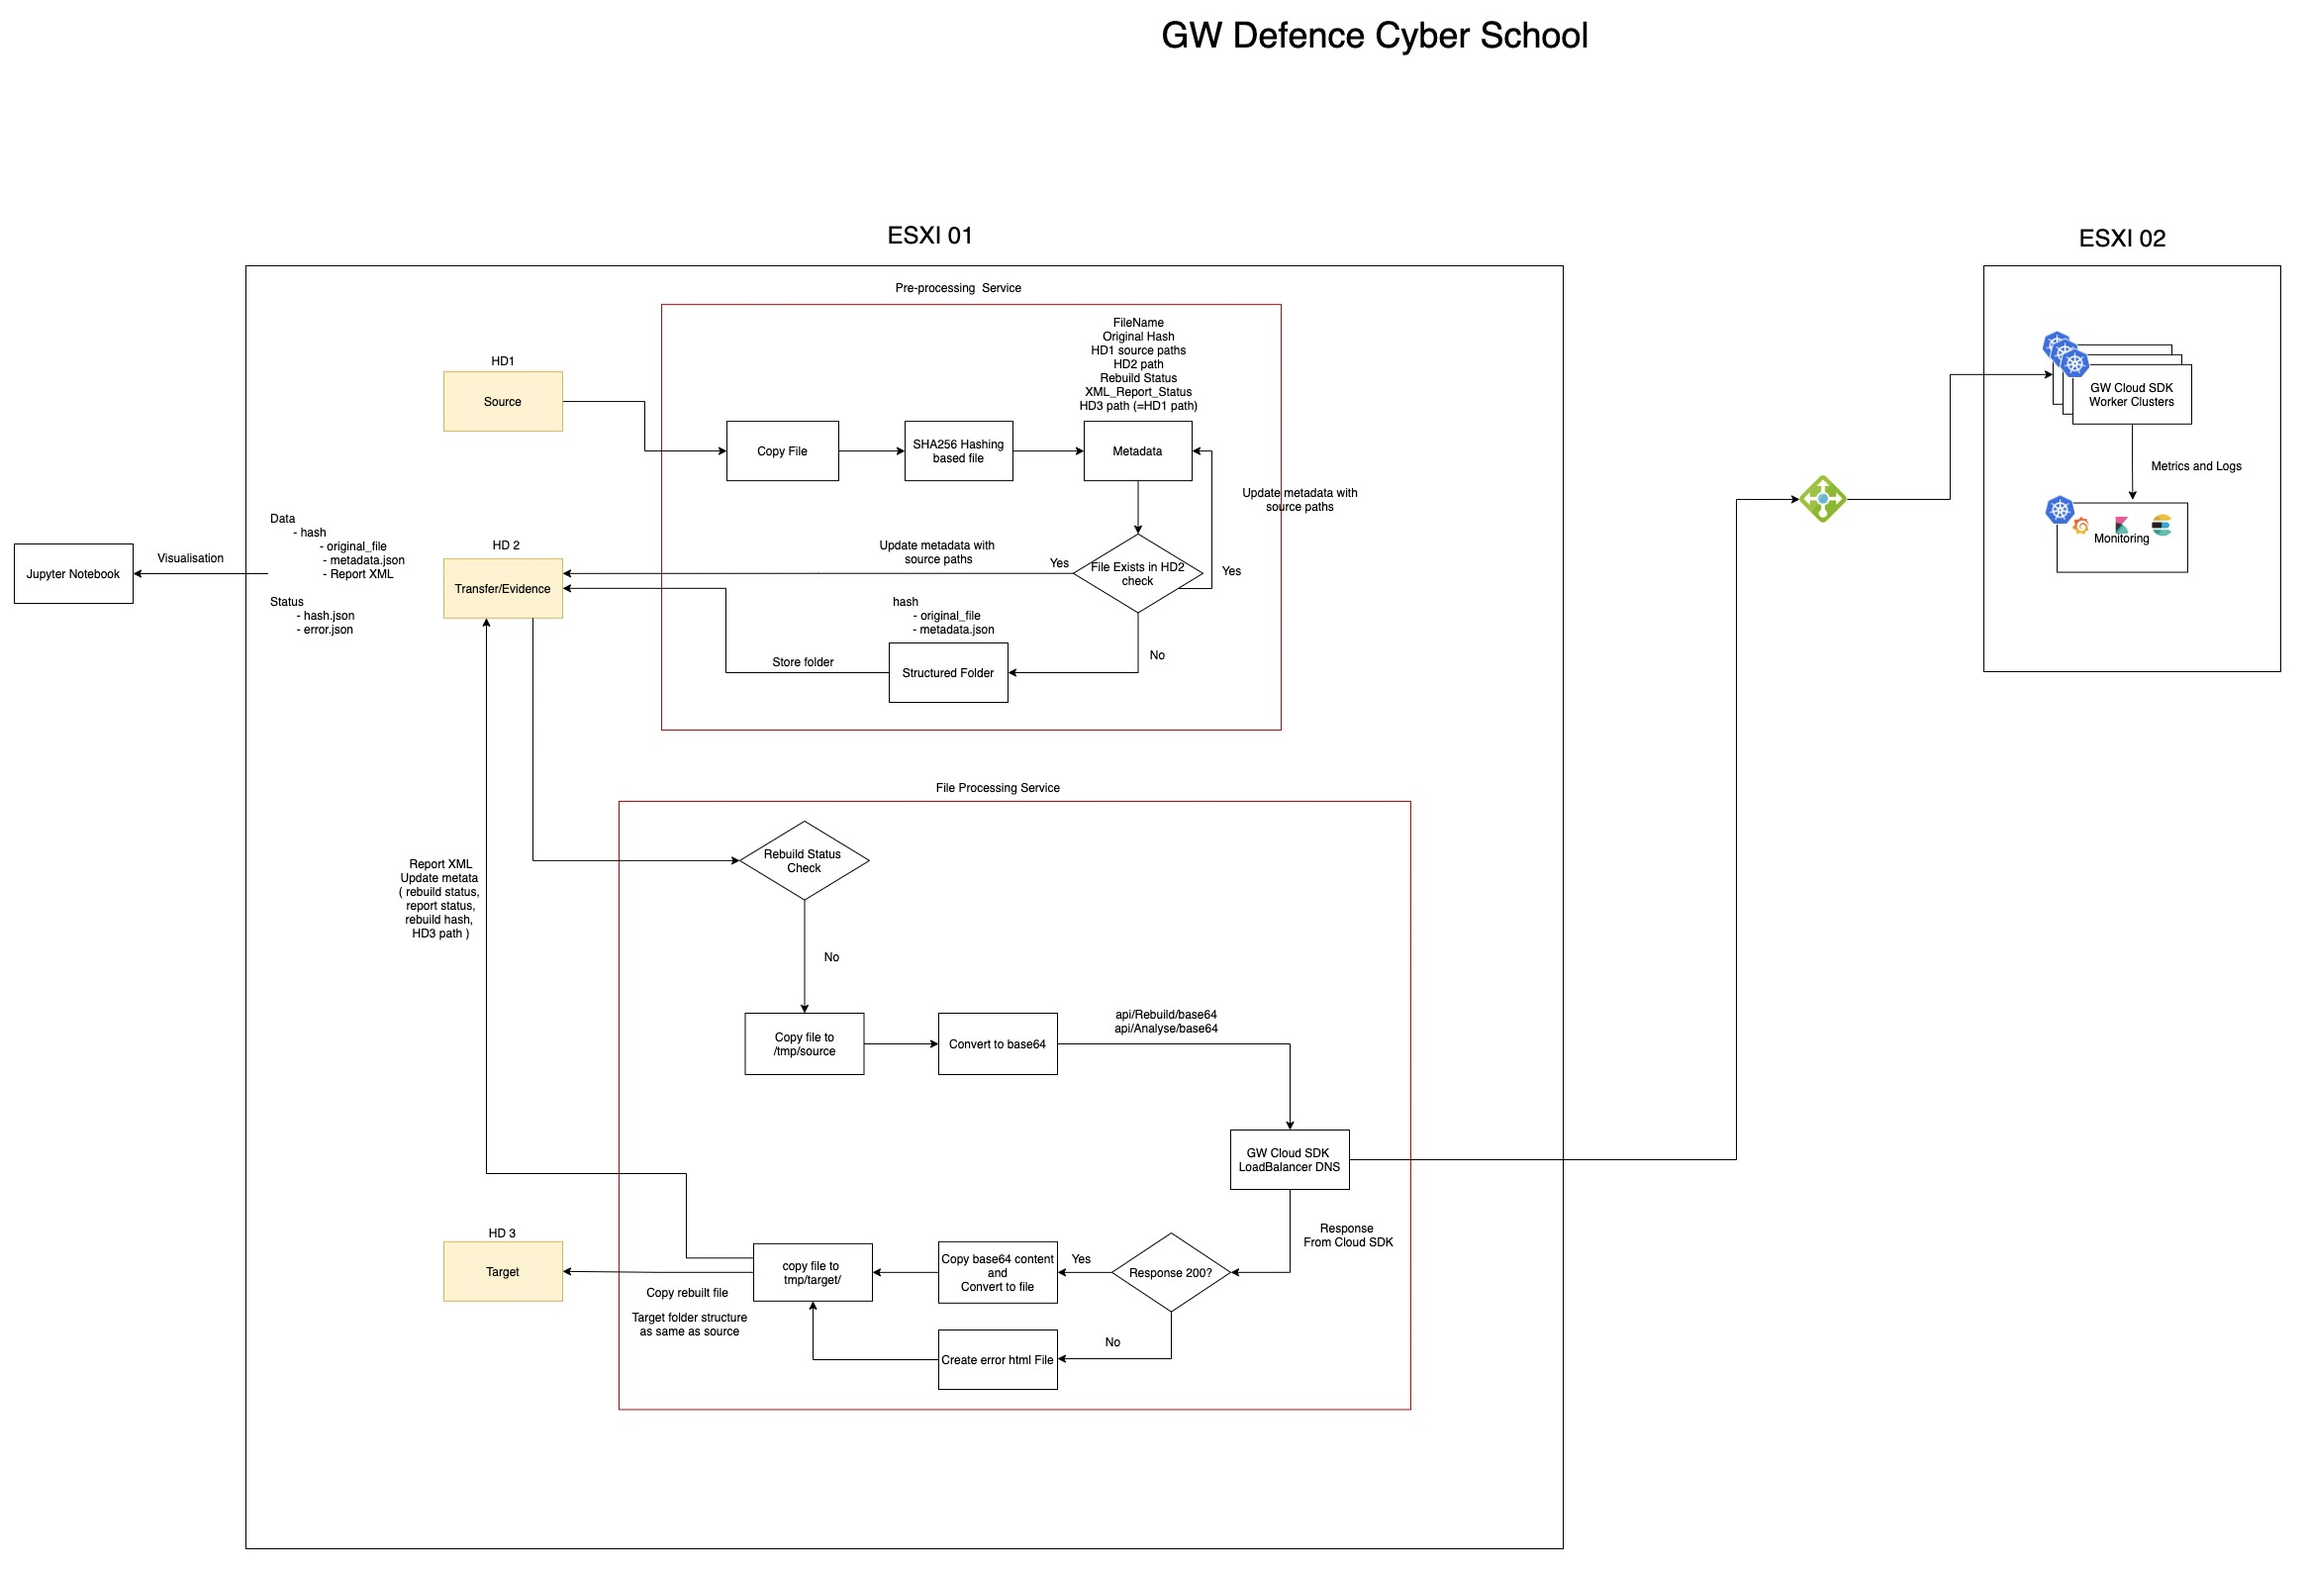
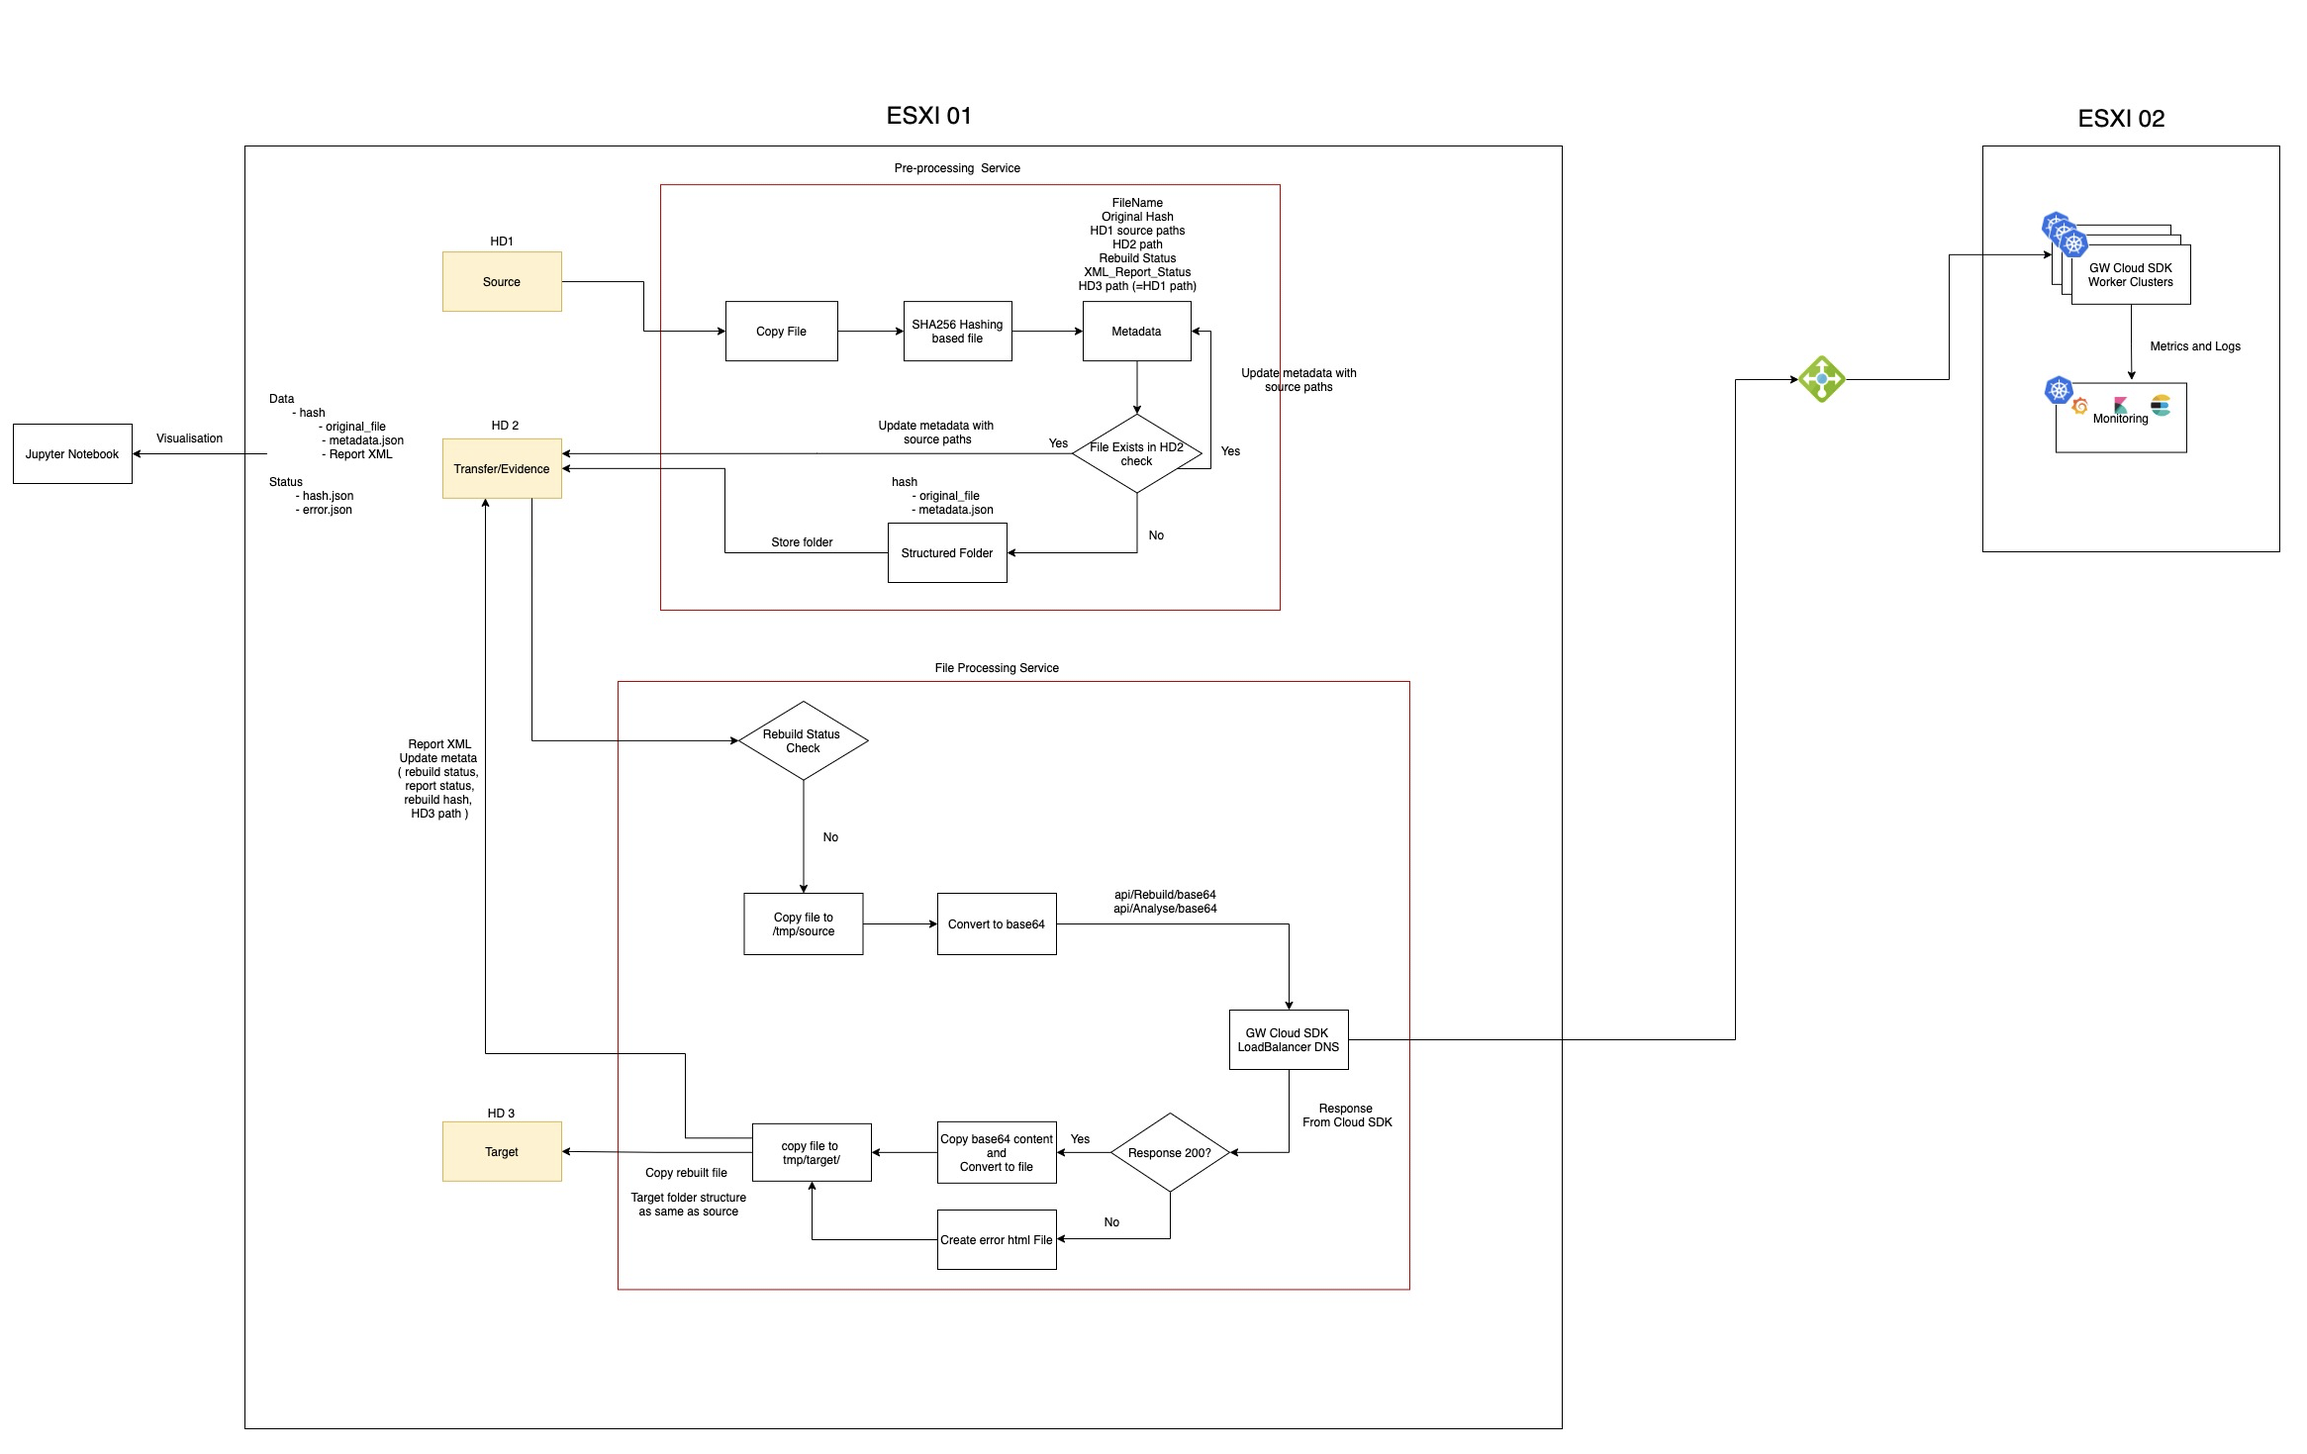
Adding processing and preProcessing modules diagrams along with data mapping diagram. Updating the README.

diff --git a/README.md b/README.md
@@ -17,6 +17,8 @@
 - Monitoring
 - 3 Harddisks (source, evidence and target)
 
+![cdr-plugin-folder-to-folder-architecture](https://user-images.githubusercontent.com/70108899/113837900-907a0c80-978e-11eb-8ad6-2fc862ee1821.png)
+
 
 ## Flow diagram
 
@@ -24,7 +26,15 @@
 
 ## Data mapping
 
-![image](https://user-images.githubusercontent.com/70108899/113400135-a314d000-93a1-11eb-8b5f-5d9fb3679264.png)
+![image](https://user-images.githubusercontent.com/70108899/113837649-57da3300-978e-11eb-8ac6-77ef13db2562.png)
+
+## PreProcessing Module Flow
+
+![image](https://user-images.githubusercontent.com/70108899/113837363-0df14d00-978e-11eb-89f2-a7046e7b8ddb.png)
+
+## Processing Module Flow
+
+![image](https://user-images.githubusercontent.com/70108899/113837515-38dba100-978e-11eb-9d82-8f6c32688ca5.png)
 
 ## Usage
 
